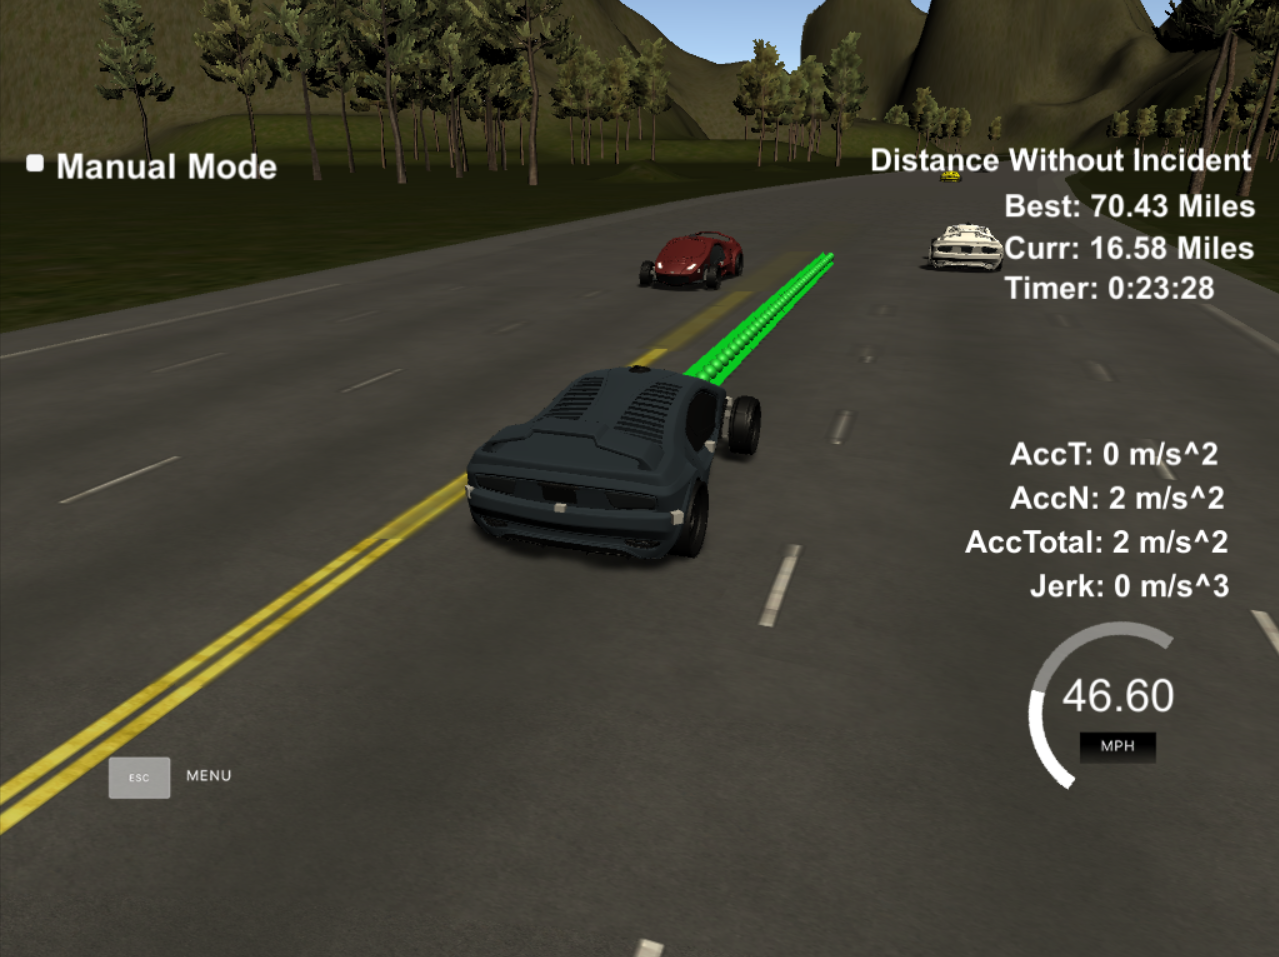
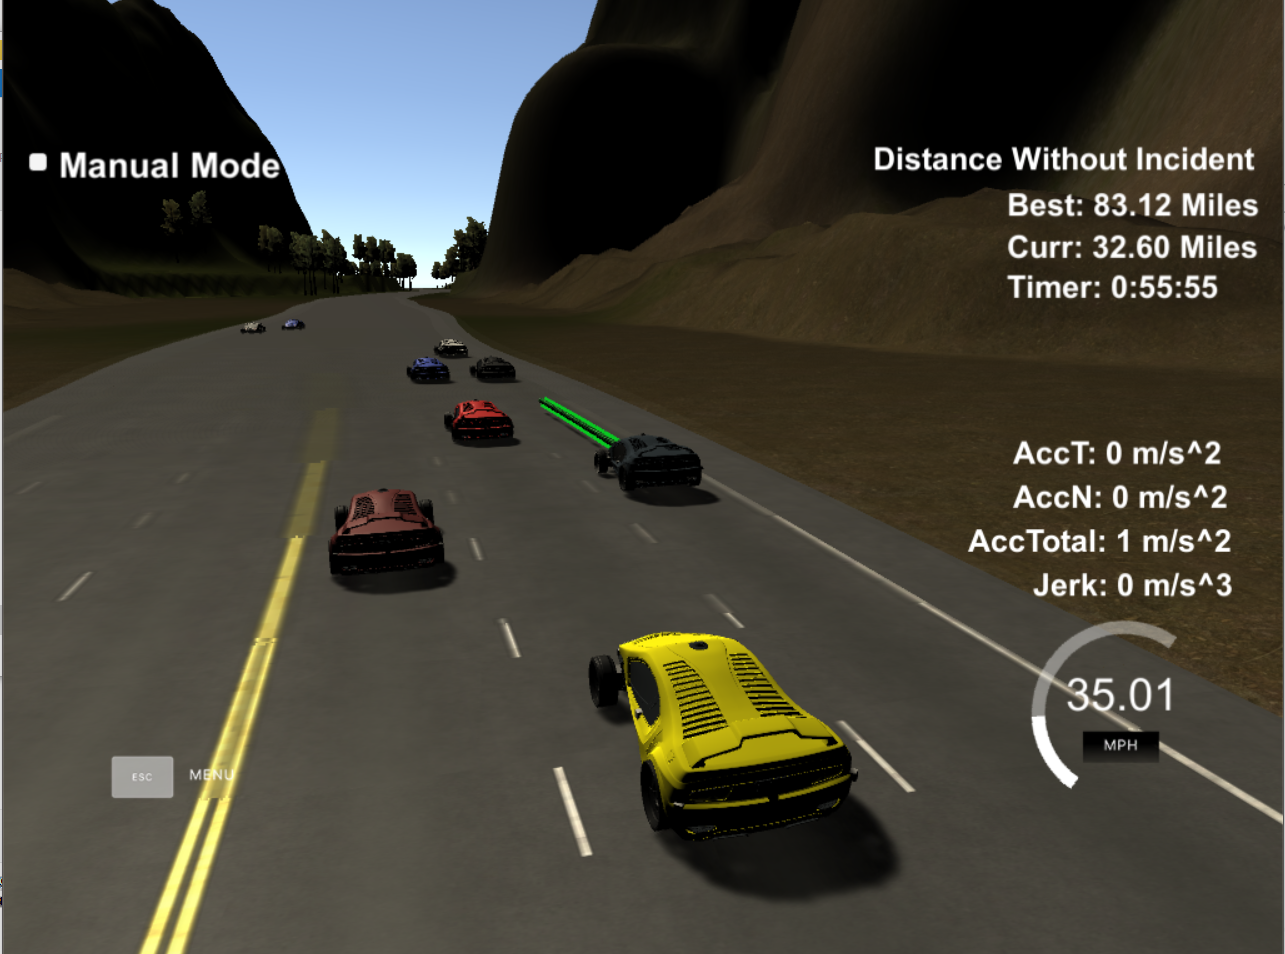
readme final

diff --git a/README.md b/README.md
@@ -9,7 +9,7 @@ In this project, I implemented a path planner in C++ to navigate through traffic
 
 The green line represents the current planned trajectory for the car sent from the path planner logic to the simulator.  The speed limit is 50mph, so to avoid exceeding this, the target speed is set to 47mph.  As you can see, the car navigates traffic until it can drive at it's target speed again.  
 
-Using my final planning logic, I was able to travel over 70 miles without incident.
+Using my final planning logic, I was able to travel over 80 miles without incident.
 
 ### Goals
 In this project the goal is to safely navigate around a virtual highway with other traffic that is driving +-10 MPH of the 50 MPH speed limit. You will be provided the car's localization and sensor fusion data, there is also a sparse map list of waypoints around the highway. The car should try to go as close as possible to the 50 MPH speed limit, which means passing slower traffic when possible, note that other cars will try to change lanes too. The car should avoid hitting other cars at all cost as well as driving inside of the marked road lanes at all times, unless going from one lane to another. The car should be able to make one complete loop around the 6946m highway. Since the car is trying to go 50 MPH, it should take a little over 5 minutes to complete 1 loop. Also the car should not experience total acceleration over 10 m/s^2 and jerk that is greater than 10 m/s^3.
@@ -88,7 +88,7 @@ You can download the Term3 Simulator which contains the Path Planning Project fr
 
 #### The car is able to drive at least 4.32 miles without incident
 
-This was easily achieved early on, but I wanted to see how far I could get. After all the tweaks I made (which will be described in more detail below), my longest run was was 70.43 miles:
+This was easily achieved early on, but I wanted to see how far I could get. After all the tweaks I made (which will be described in more detail below), my longest run was was 83.12 miles:
 
 <p align="center">
   <img src="./doc/best.PNG" >
